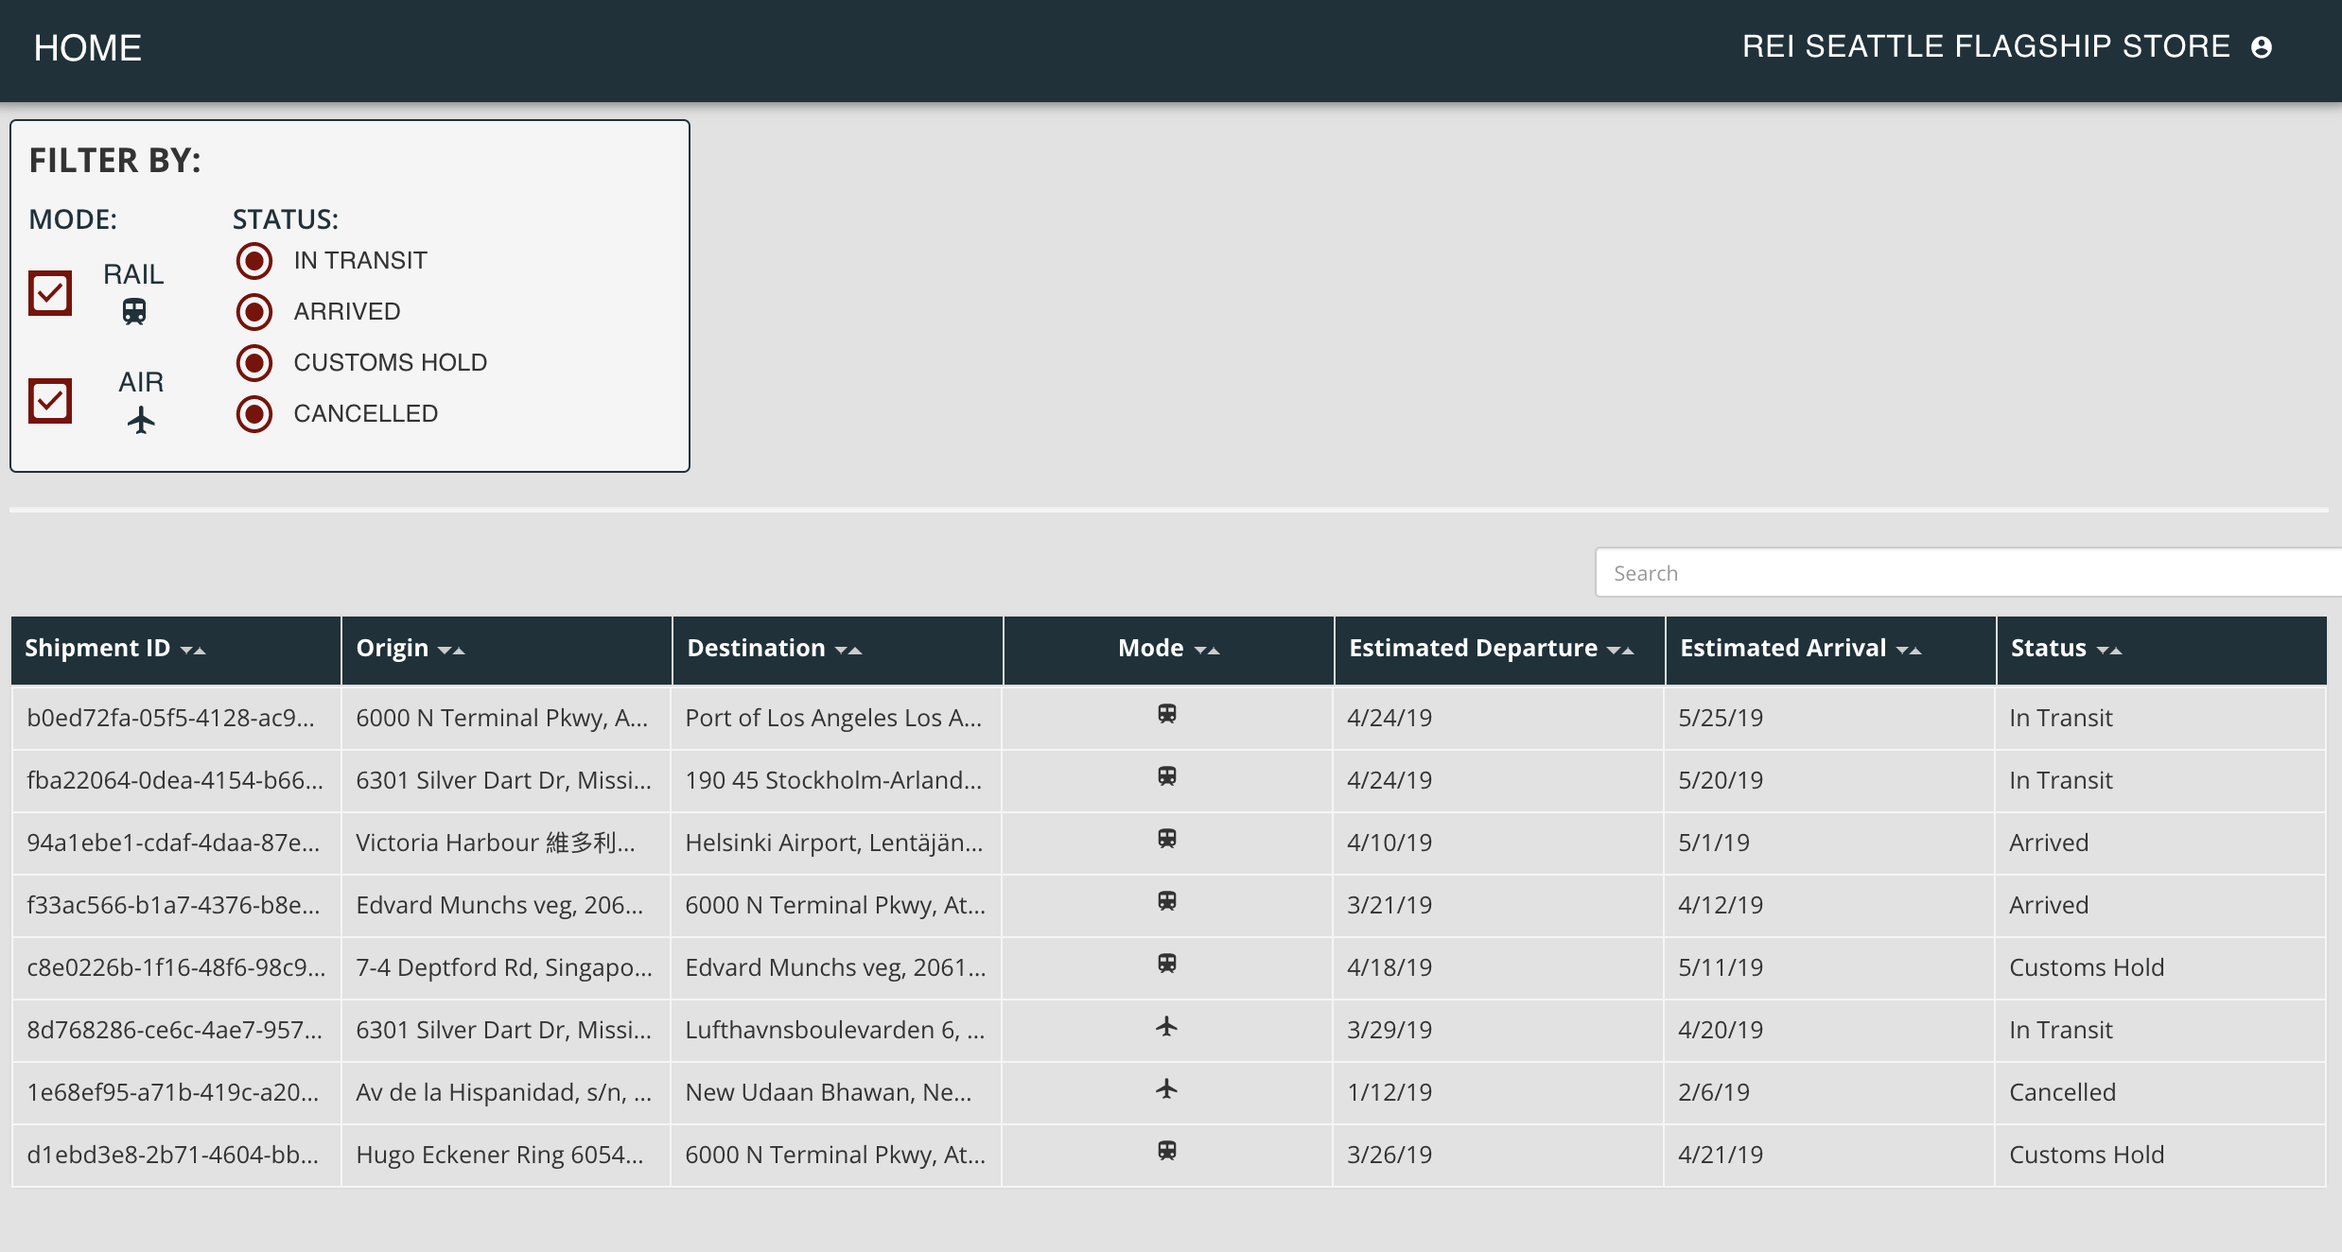
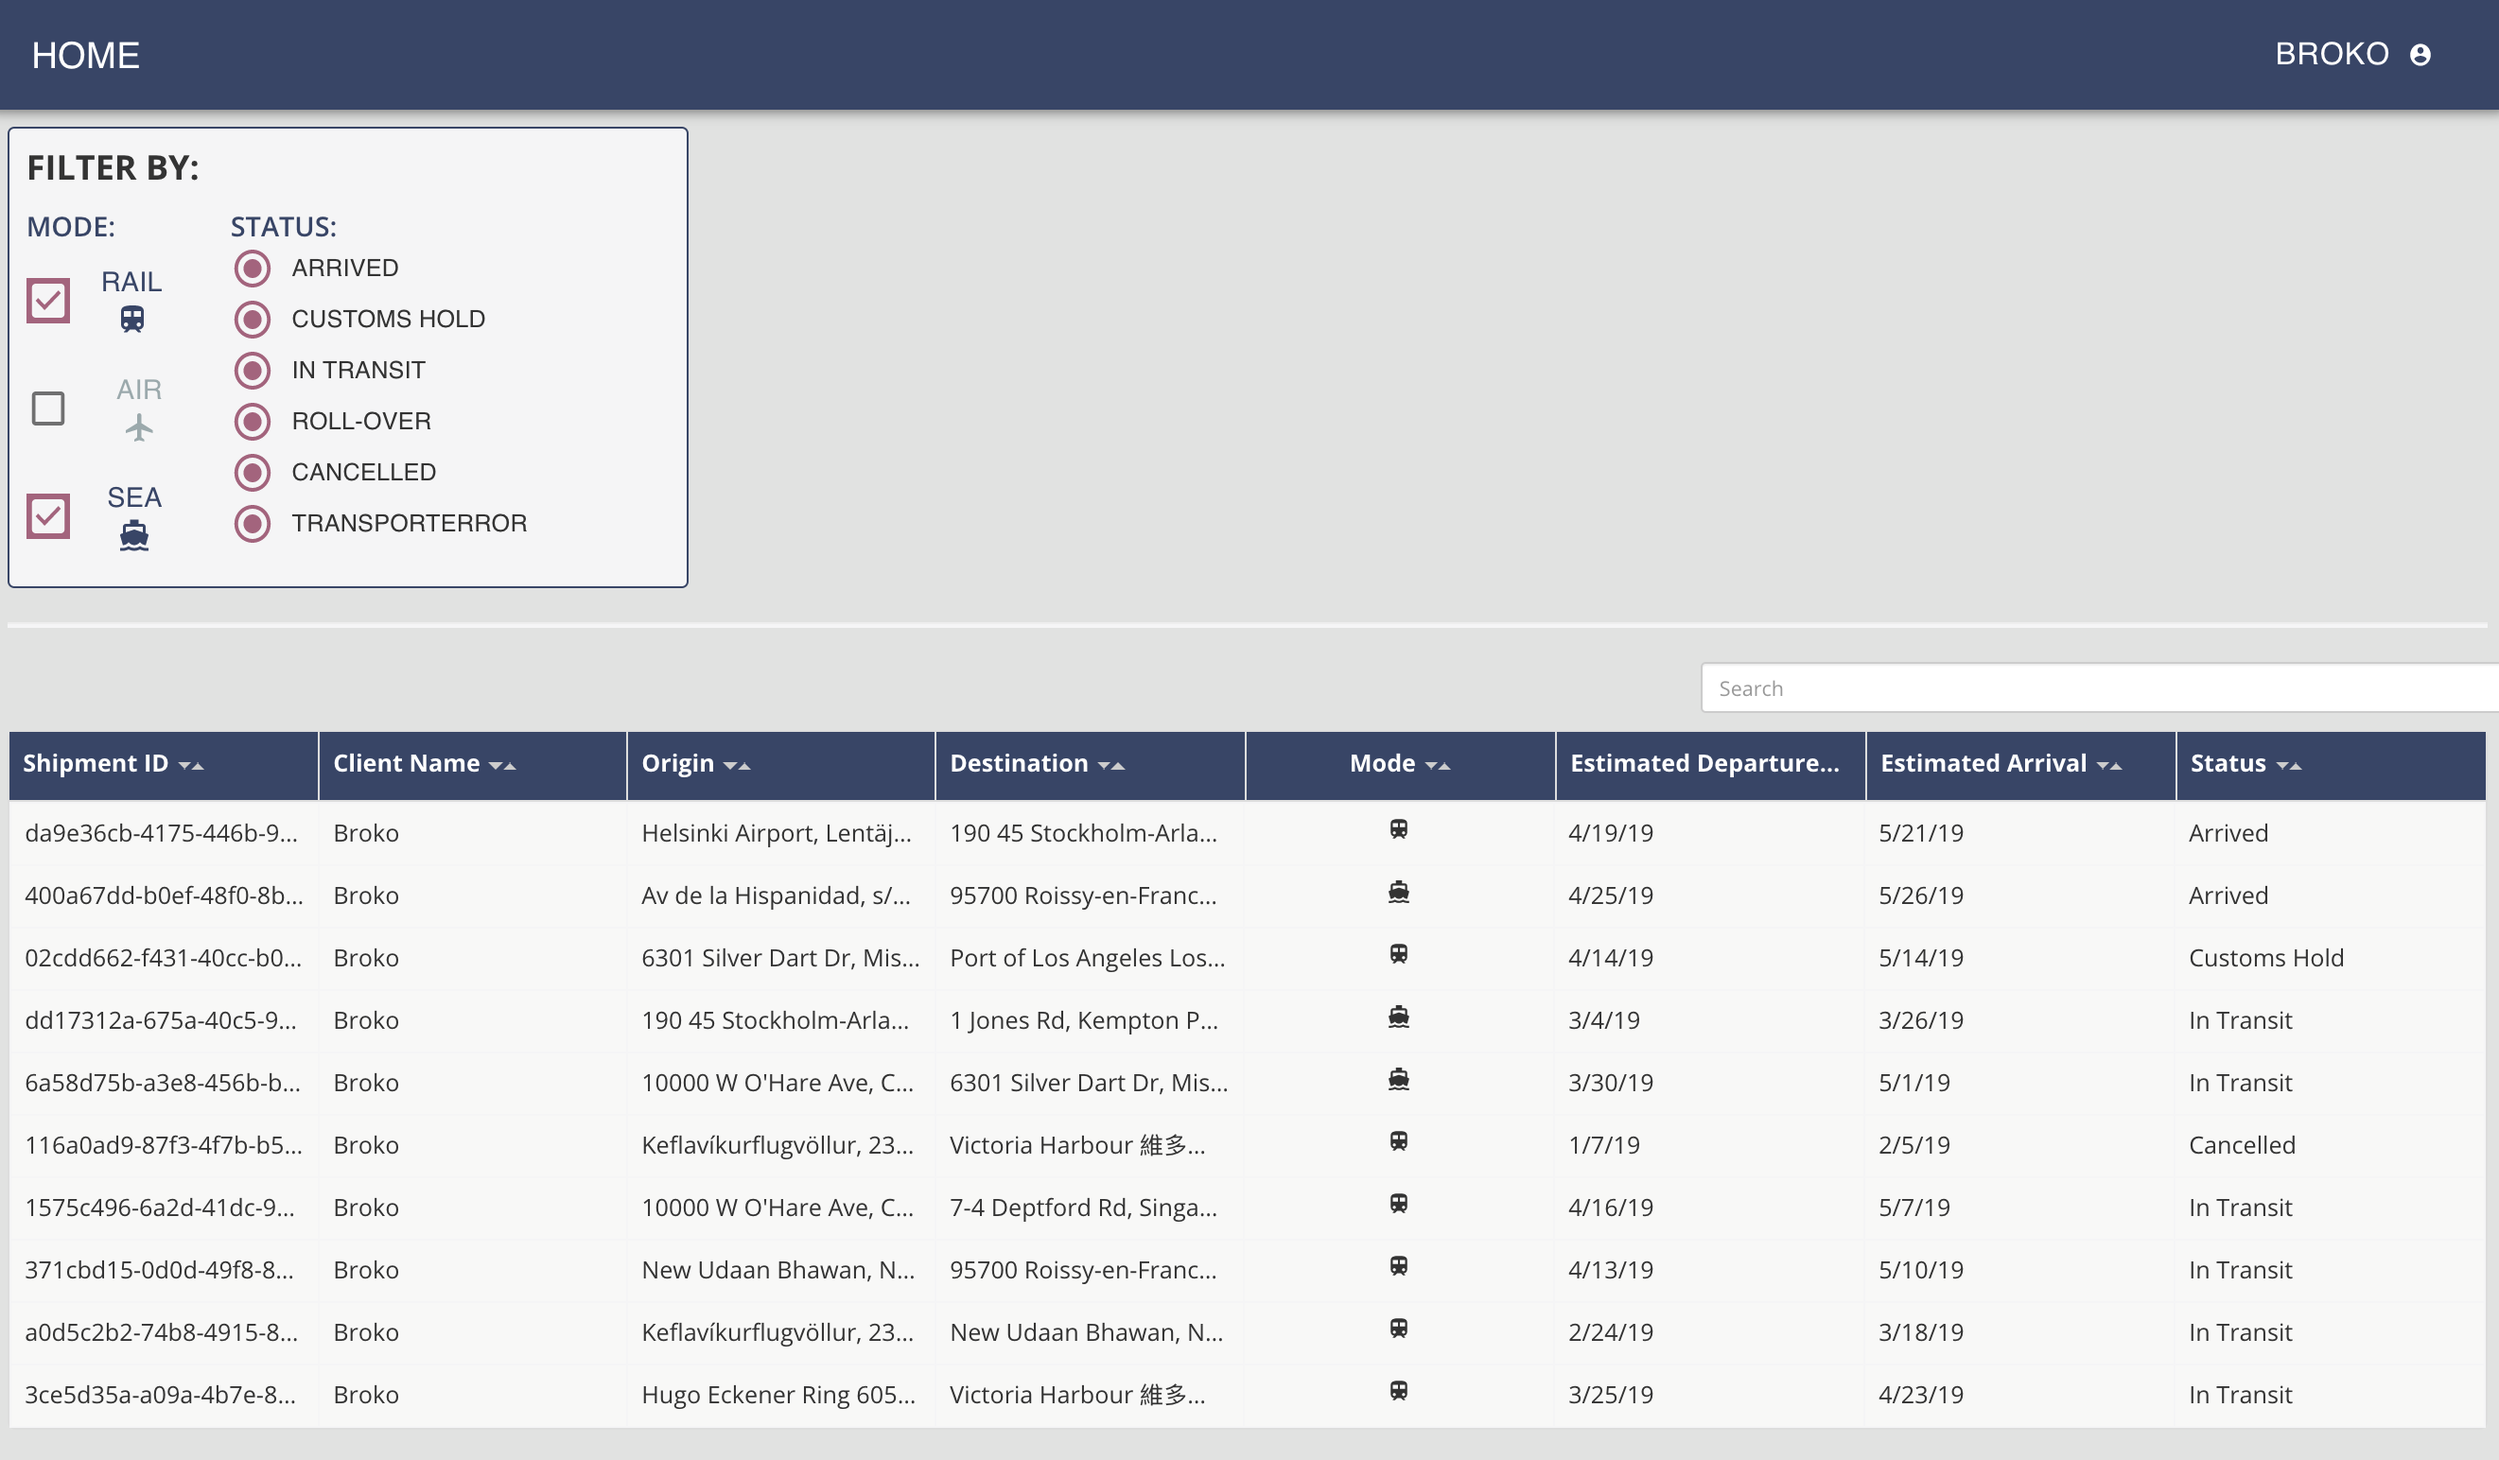
chore: pick a better color scheme

diff --git a/src/utils/theme.js b/src/utils/theme.js
@@ -1,17 +1,17 @@
 export const THEME = {
   MAIN: {
-    PRIMARY: "#455a64",
-    LIGHT: "#718792",
-    DARK: "#1c313a"
+    PRIMARY: "#98a9ac",
+    LIGHT: "#f3bd3d",
+    DARK: "#354568"
   },
   SECONDARY: {
     PRIMARY: "#b71c1c",
-    LIGHT: "#f05545",
-    DARK: "#7f0000"
+    LIGHT: "#f3bd3d",
+    DARK: "#ac5f7e"
   },
   HIGHLIGHT: {
     PRIMARY: "#263238"
   },
-  LIGHT: "#E1E2E1",
+  LIGHT: "#f8f8f7",
   LIGHTEST: "#F5F5F6"
 };

diff --git a/src/components/Login.js b/src/components/Login.js
@@ -77,8 +77,8 @@ const useStyles = makeStyles(theme => ({
     color: THEME.LIGHTEST
   },
   submitButton: {
-    backgroundColor: THEME.MAIN.LIGHT,
-    color: THEME.LIGHT,
+    backgroundColor: THEME.LIGHT,
+    color: THEME.MAIN.DARK,
     fontSize: "20px",
     marginLeft: "25%",
     marginRight: "25%",

diff --git a/src/components/Table.js b/src/components/Table.js
@@ -29,7 +29,7 @@ function modeIconFormatter(cell, row) {
 
 const useStyles = () =>
   makeStyles({
-    errorMessage: { fontSize: "24px", color: THEME.MAIN.DARK },
+    errorMessage: { fontSize: "28px", color: THEME.MAIN.DARK },
     errorWrapper: {
       marginTop: "20px",
       textAlign: "center"

diff --git a/src/components/Filters/modes.js b/src/components/Filters/modes.js
@@ -41,7 +41,7 @@ const useStyles = makeStyles({
   inactiveCard: {
     margin: 0,
     padding: 10,
-    color: THEME.MAIN.LIGHT,
+    color: THEME.MAIN.PRIMARY,
     minWidth: "40px",
     minHeight: "40px",
     paddingRight: 0

diff --git a/src/components/nav-bar.js b/src/components/nav-bar.js
@@ -33,6 +33,8 @@ const useStyles = makeStyles(theme => ({
   },
   menuItem: {
     padding: "8px",
+    paddingLeft: "20px",
+    paddingRight: "20px",
     fontSize: "18px"
   },
   title: {

diff --git a/README.md b/README.md
@@ -29,6 +29,7 @@ If you'd like to set this project up on your own local server:
 - You can now open [http://localhost:3000](http://localhost:3000) to view it in the browser or whichever localhost you have set
 - NOTE: There is an authentication step. The only requirement is a non null password for all client log ins.
 - To view all clients in an aggregate view, log in as the Administator.
+  ![](login.png)
 
 ---
 
